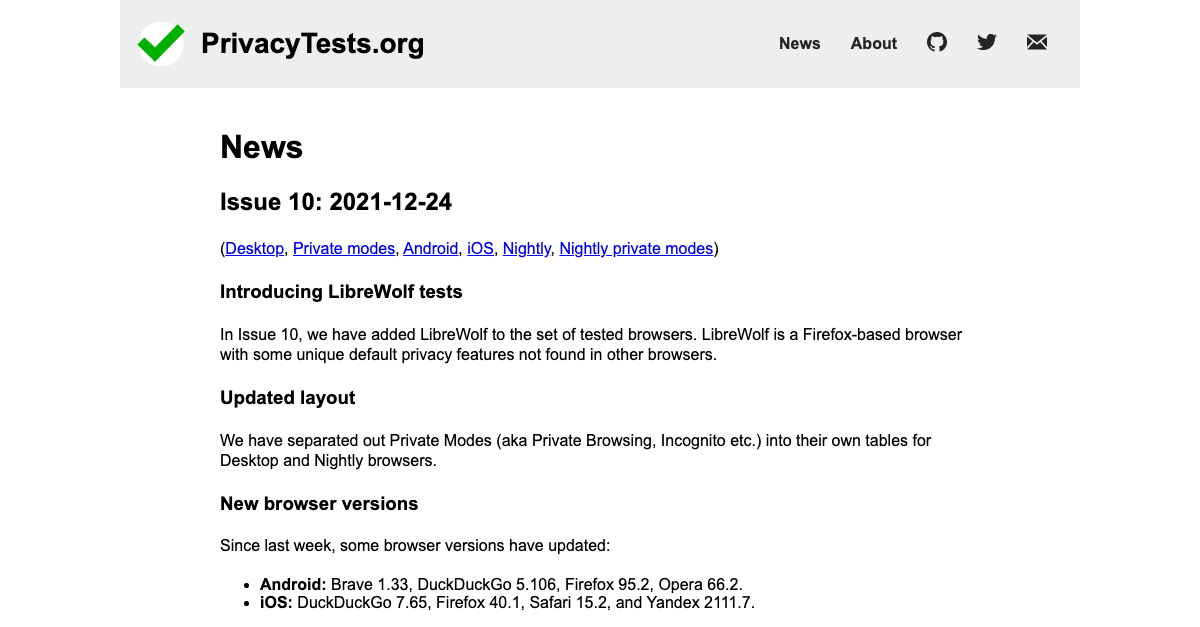
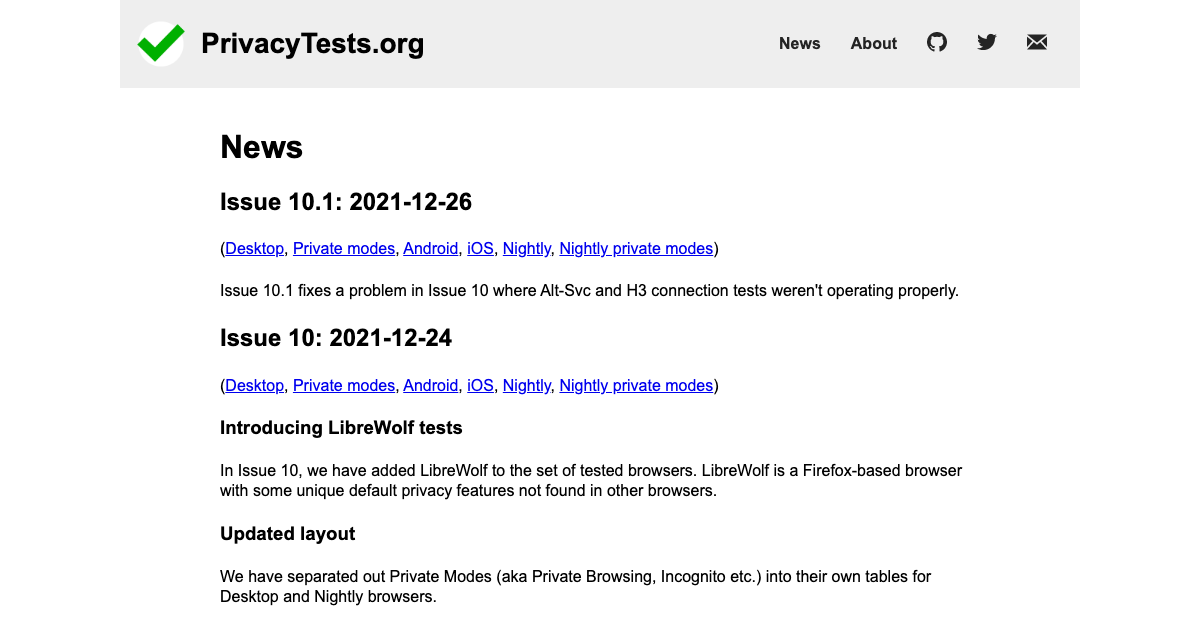
v 10.1 news

diff --git a/testing/out/news.html b/testing/out/news.html
@@ -159,7 +159,26 @@ h1.title {
 </div>
     
   <div class="copy"><h1 id="news">News</h1>
-<h2 id="issue-9-desktop-nightly-android-ios-2021-12-16">Issue 9 (<a href="/">Desktop</a>, <a href="/nightly.html">Nightly</a>, <a href="/android.html">Android</a>, <a href="/ios.html">iOS</a>: 2021-12-16)</h2>
+<h2 id="issue-101-2021-12-26">Issue 10.1: 2021-12-26</h2>
+<p>(<a href=".">Desktop</a>, <a href="private.html">Private modes</a>, <a href="android.html">Android</a>, <a href="ios.html">iOS</a>, <a href="nightly.html">Nightly</a>, <a href="nightly-private.html">Nightly private modes</a>)</p>
+<p>Issue 10.1 fixes a problem in Issue 10 where Alt-Svc and H3 connection tests weren&#39;t operating properly.</p>
+<h2 id="issue-10-2021-12-24">Issue 10: 2021-12-24</h2>
+<p>(<a href=".">Desktop</a>, <a href="archive/issue10/private.html">Private modes</a>, <a href="archive/issue10/android.html">Android</a>, <a href="archive/issue10/ios.html">iOS</a>, <a href="archive/issue10/nightly.html">Nightly</a>, <a href="archive/issue10/nightly-private.html">Nightly private modes</a>)</p>
+<h3 id="introducing-librewolf-tests">Introducing LibreWolf tests</h3>
+<p>In Issue 10, we have added LibreWolf to the set of tested browsers. LibreWolf is a Firefox-based browser with some unique default privacy features not found in other browsers.</p>
+<h3 id="updated-layout">Updated layout</h3>
+<p>We have separated out Private Modes (aka Private Browsing, Incognito etc.) into their own tables for Desktop and Nightly browsers.</p>
+<h3 id="new-browser-versions">New browser versions</h3>
+<p>Since last week, some browser versions have updated:</p>
+<ul>
+<li><strong>Android:</strong> Brave 1.33, DuckDuckGo 5.106, Firefox 95.2, Opera 66.2.</li>
+<li><strong>iOS:</strong> DuckDuckGo 7.65, Firefox 40.1, Safari 15.2, and Yandex 2111.7.</li>
+</ul>
+<p>Desktop versions haven&#39;t updated this week.</p>
+<h3 id="added-test">Added test</h3>
+<p>I have separated the Global Privacy Control test into &quot;GPC enabled first-party&quot; and &quot;GPC enabled third-party.&quot;</p>
+<h2 id="issue-9-2021-12-16">Issue 9: 2021-12-16</h2>
+<p>(<a href="archive/issue9/">Desktop</a>, <a href="archive/issue9/nightly.html">Nightly</a>, <a href="archive/issue9/android.html">Android</a>, <a href="archive/issue9/ios.html">iOS</a>)</p>
 <h3 id="introducing-mobile-web-browser-testing">Introducing mobile web browser testing</h3>
 <p>This issue adds two additional platforms for browser testing: Android and iOS. The new browsers are:</p>
 <ul>
@@ -172,12 +191,12 @@ h1.title {
 <h3 id="known-issue">Known issue</h3>
 <p>Again we have skipped testing of Firefox Nightly because of the browser crash.</p>
 <h2 id="issue-8-desktop-nightly-2021-12-09">Issue 8 (<a href="/archive/issue8.html">Desktop</a>, <a href="/archive/issue8.nightly.html">Nightly</a>: 2021-12-09)</h2>
-<h3 id="new-browser-versions">New browser versions</h3>
+<h3 id="new-browser-versions-1">New browser versions</h3>
 <p>Since Issue 7, Firefox has updated to version 95.0.</p>
 <h3 id="known-issue-1">Known issue</h3>
 <p>Because of a crash in Firefox Nightly, it is not included in this week&#39;s Nightly browser testing.</p>
 <h2 id="issue-7-2021-12-02"><a href="/archive/issue7.html">Issue 7</a> (2021-12-02)</h2>
-<h3 id="new-browser-versions-1">New browser versions</h3>
+<h3 id="new-browser-versions-2">New browser versions</h3>
 <p>Since Issue 6, Opera has updated to 82.0 and Vivaldi to 5.0.</p>
 <h3 id="known-issue-2">Known issue</h3>
 <p>Because of a crash in Firefox Nightly, it is not included in this week&#39;s testing.</p>
@@ -188,7 +207,7 @@ h1.title {
 <p>Brave has introduced an important new partitioning behavior. HTTP1, HTTP2, and HTTP3 connections are now partitioned by first party. That means your web connections can no longer be used to correlate your visits between different websites.</p>
 <p>Thanks and congratulations to the Brave team for this fix!</p>
 <h2 id="issue-5-2021-11-17"><a href="/archive/issue5.html">Issue 5</a> (2021-11-17)</h2>
-<h3 id="new-browser-versions-2">New browser versions</h3>
+<h3 id="new-browser-versions-3">New browser versions</h3>
 <p>Since Issue 4, three browsers have updates:</p>
 <ul>
 <li>Brave 1.32</li>
@@ -209,10 +228,10 @@ h1.title {
 <li>Vivaldi Snapshot</li>
 </ul>
 <p>These tests give a preview of future privacy developments in these browsers. And I hope it offers faster feedback for browser development teams as they land patches for new privacy protections.</p>
-<h3 id="new-browser-versions-3">New browser versions</h3>
+<h3 id="new-browser-versions-4">New browser versions</h3>
 <p>Since Issue 3, Firefox has updated to v. 94.0.</p>
 <h2 id="issue-3-2021-11-02"><a href="/archive/issue3.html">Issue 3</a> (2021-11-02)</h2>
-<h3 id="new-browser-versions-4">New browser versions</h3>
+<h3 id="new-browser-versions-5">New browser versions</h3>
 <p>Since Issue 2, new browser releases include Chrome 95.0, Edge 95.0, and Safari 15.1.</p>
 <h3 id="new-tests-new-results">New tests, new results</h3>
 <p>Three new tests have been added. These are:</p>
